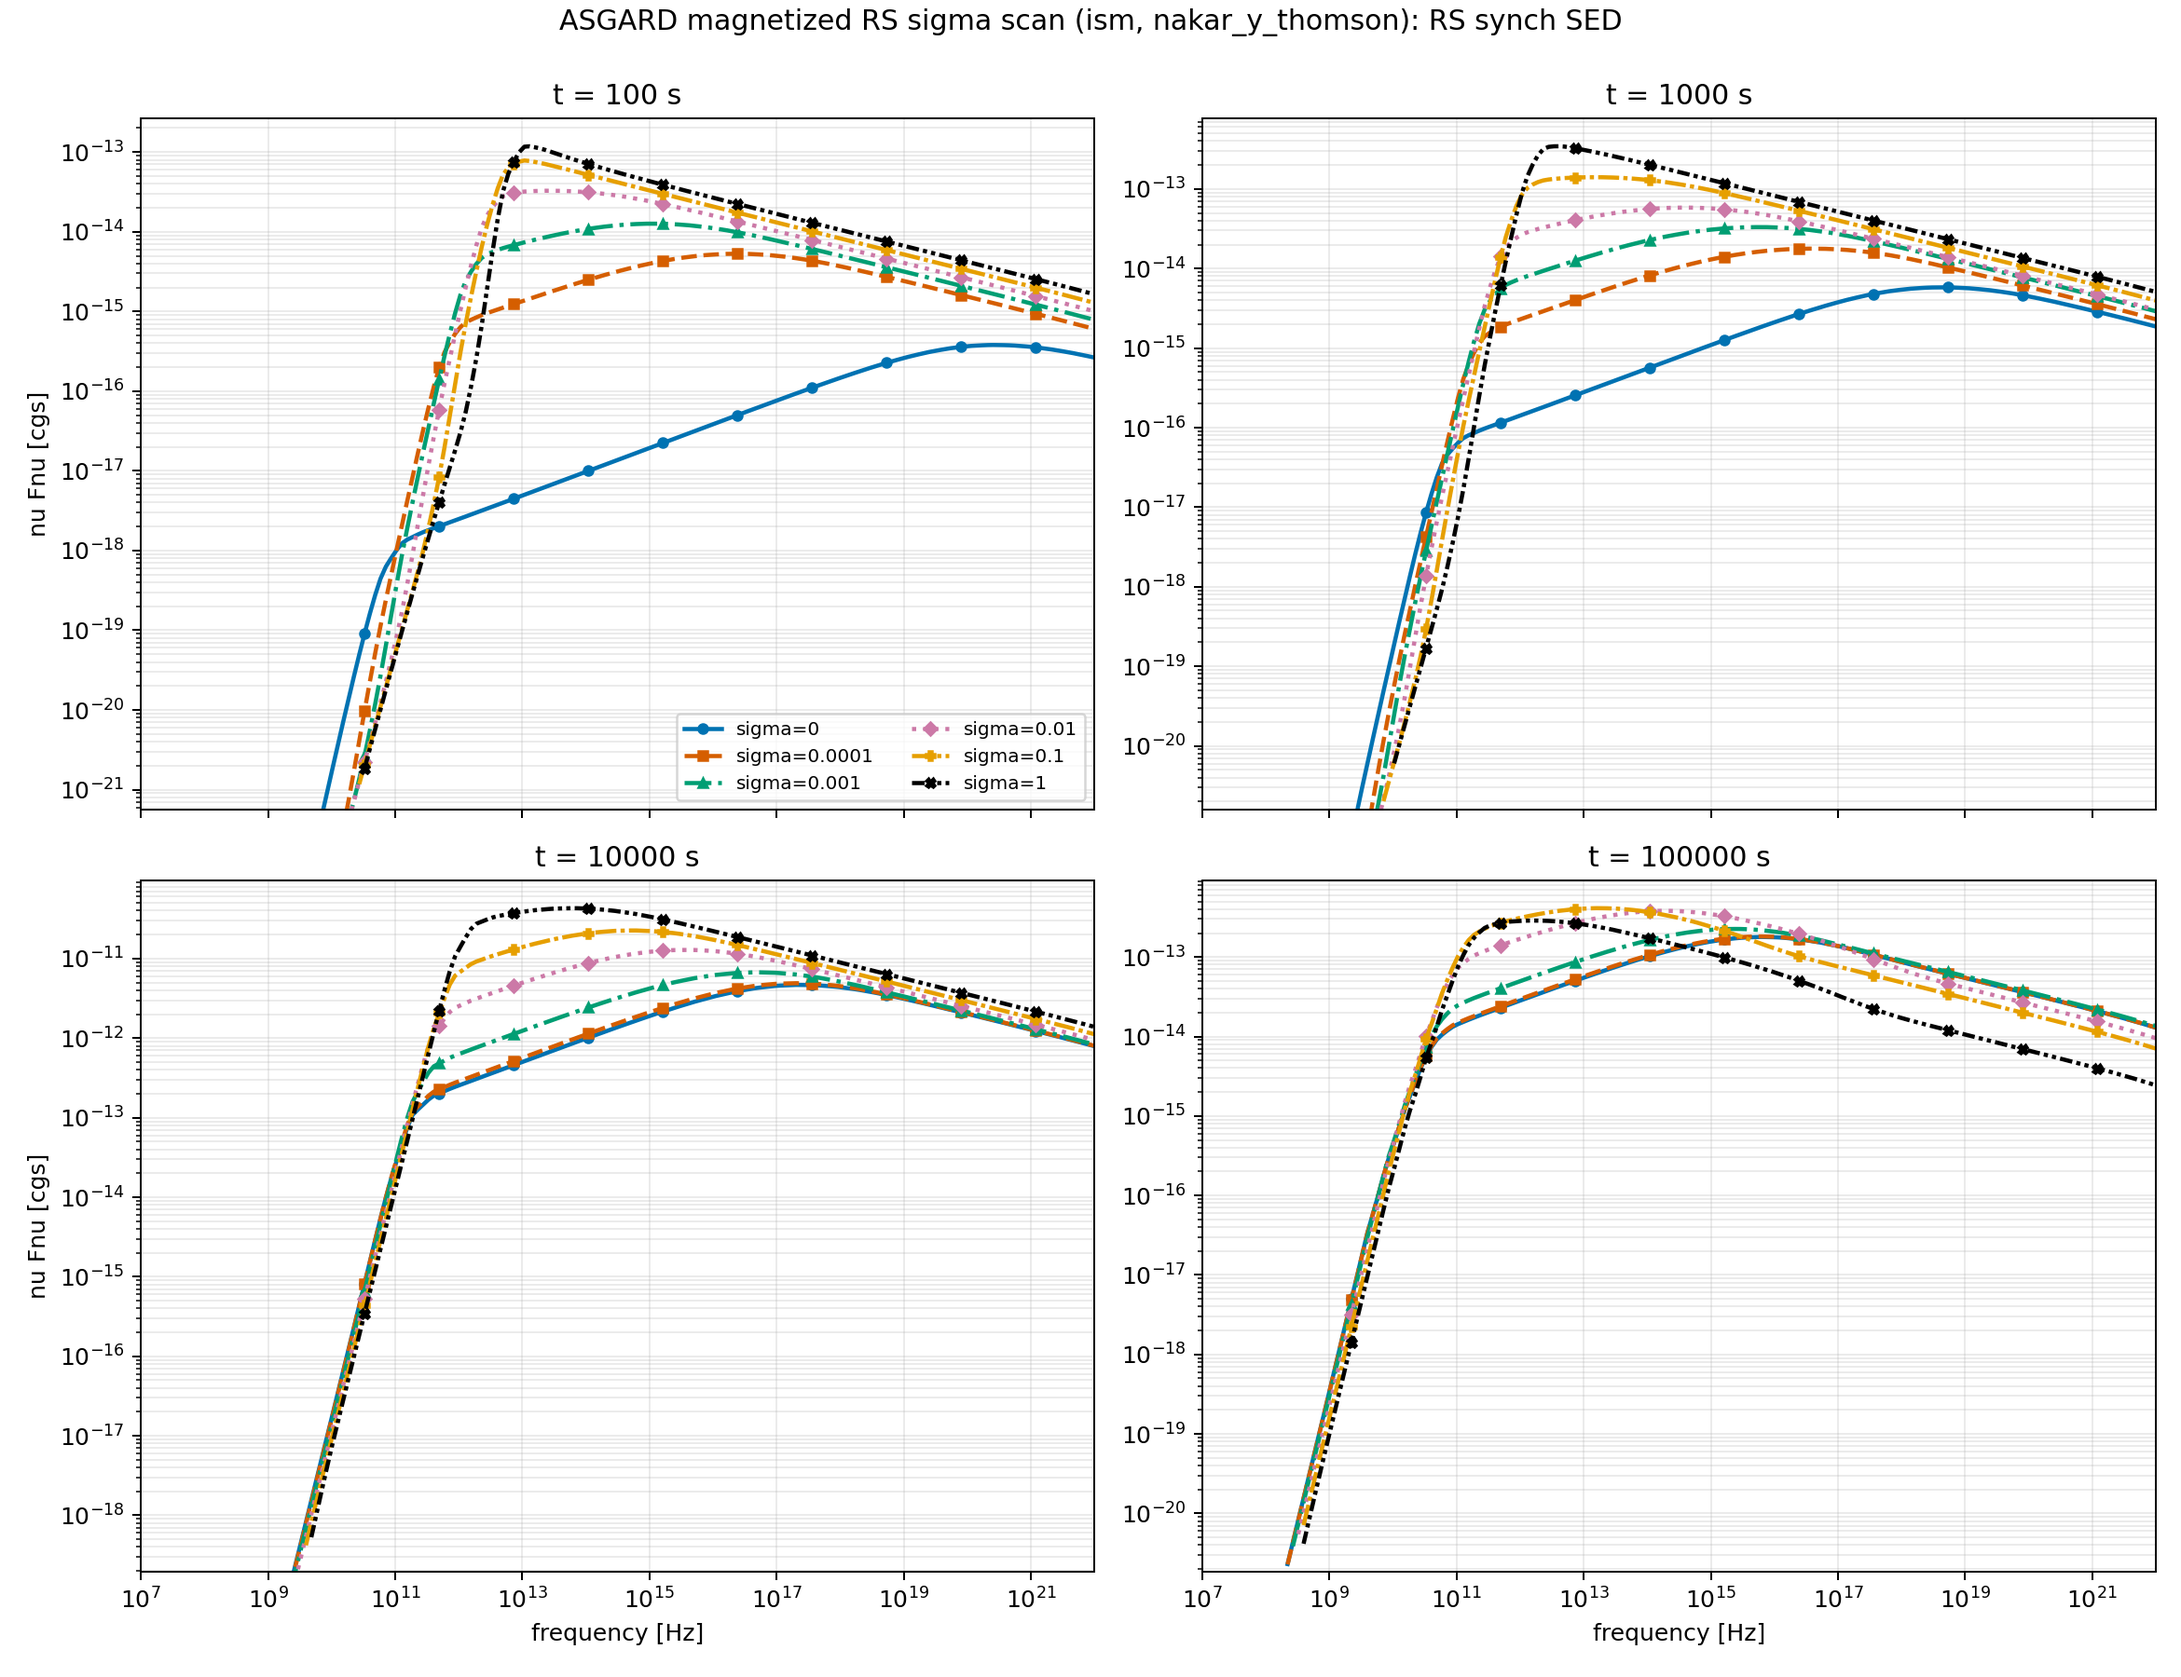
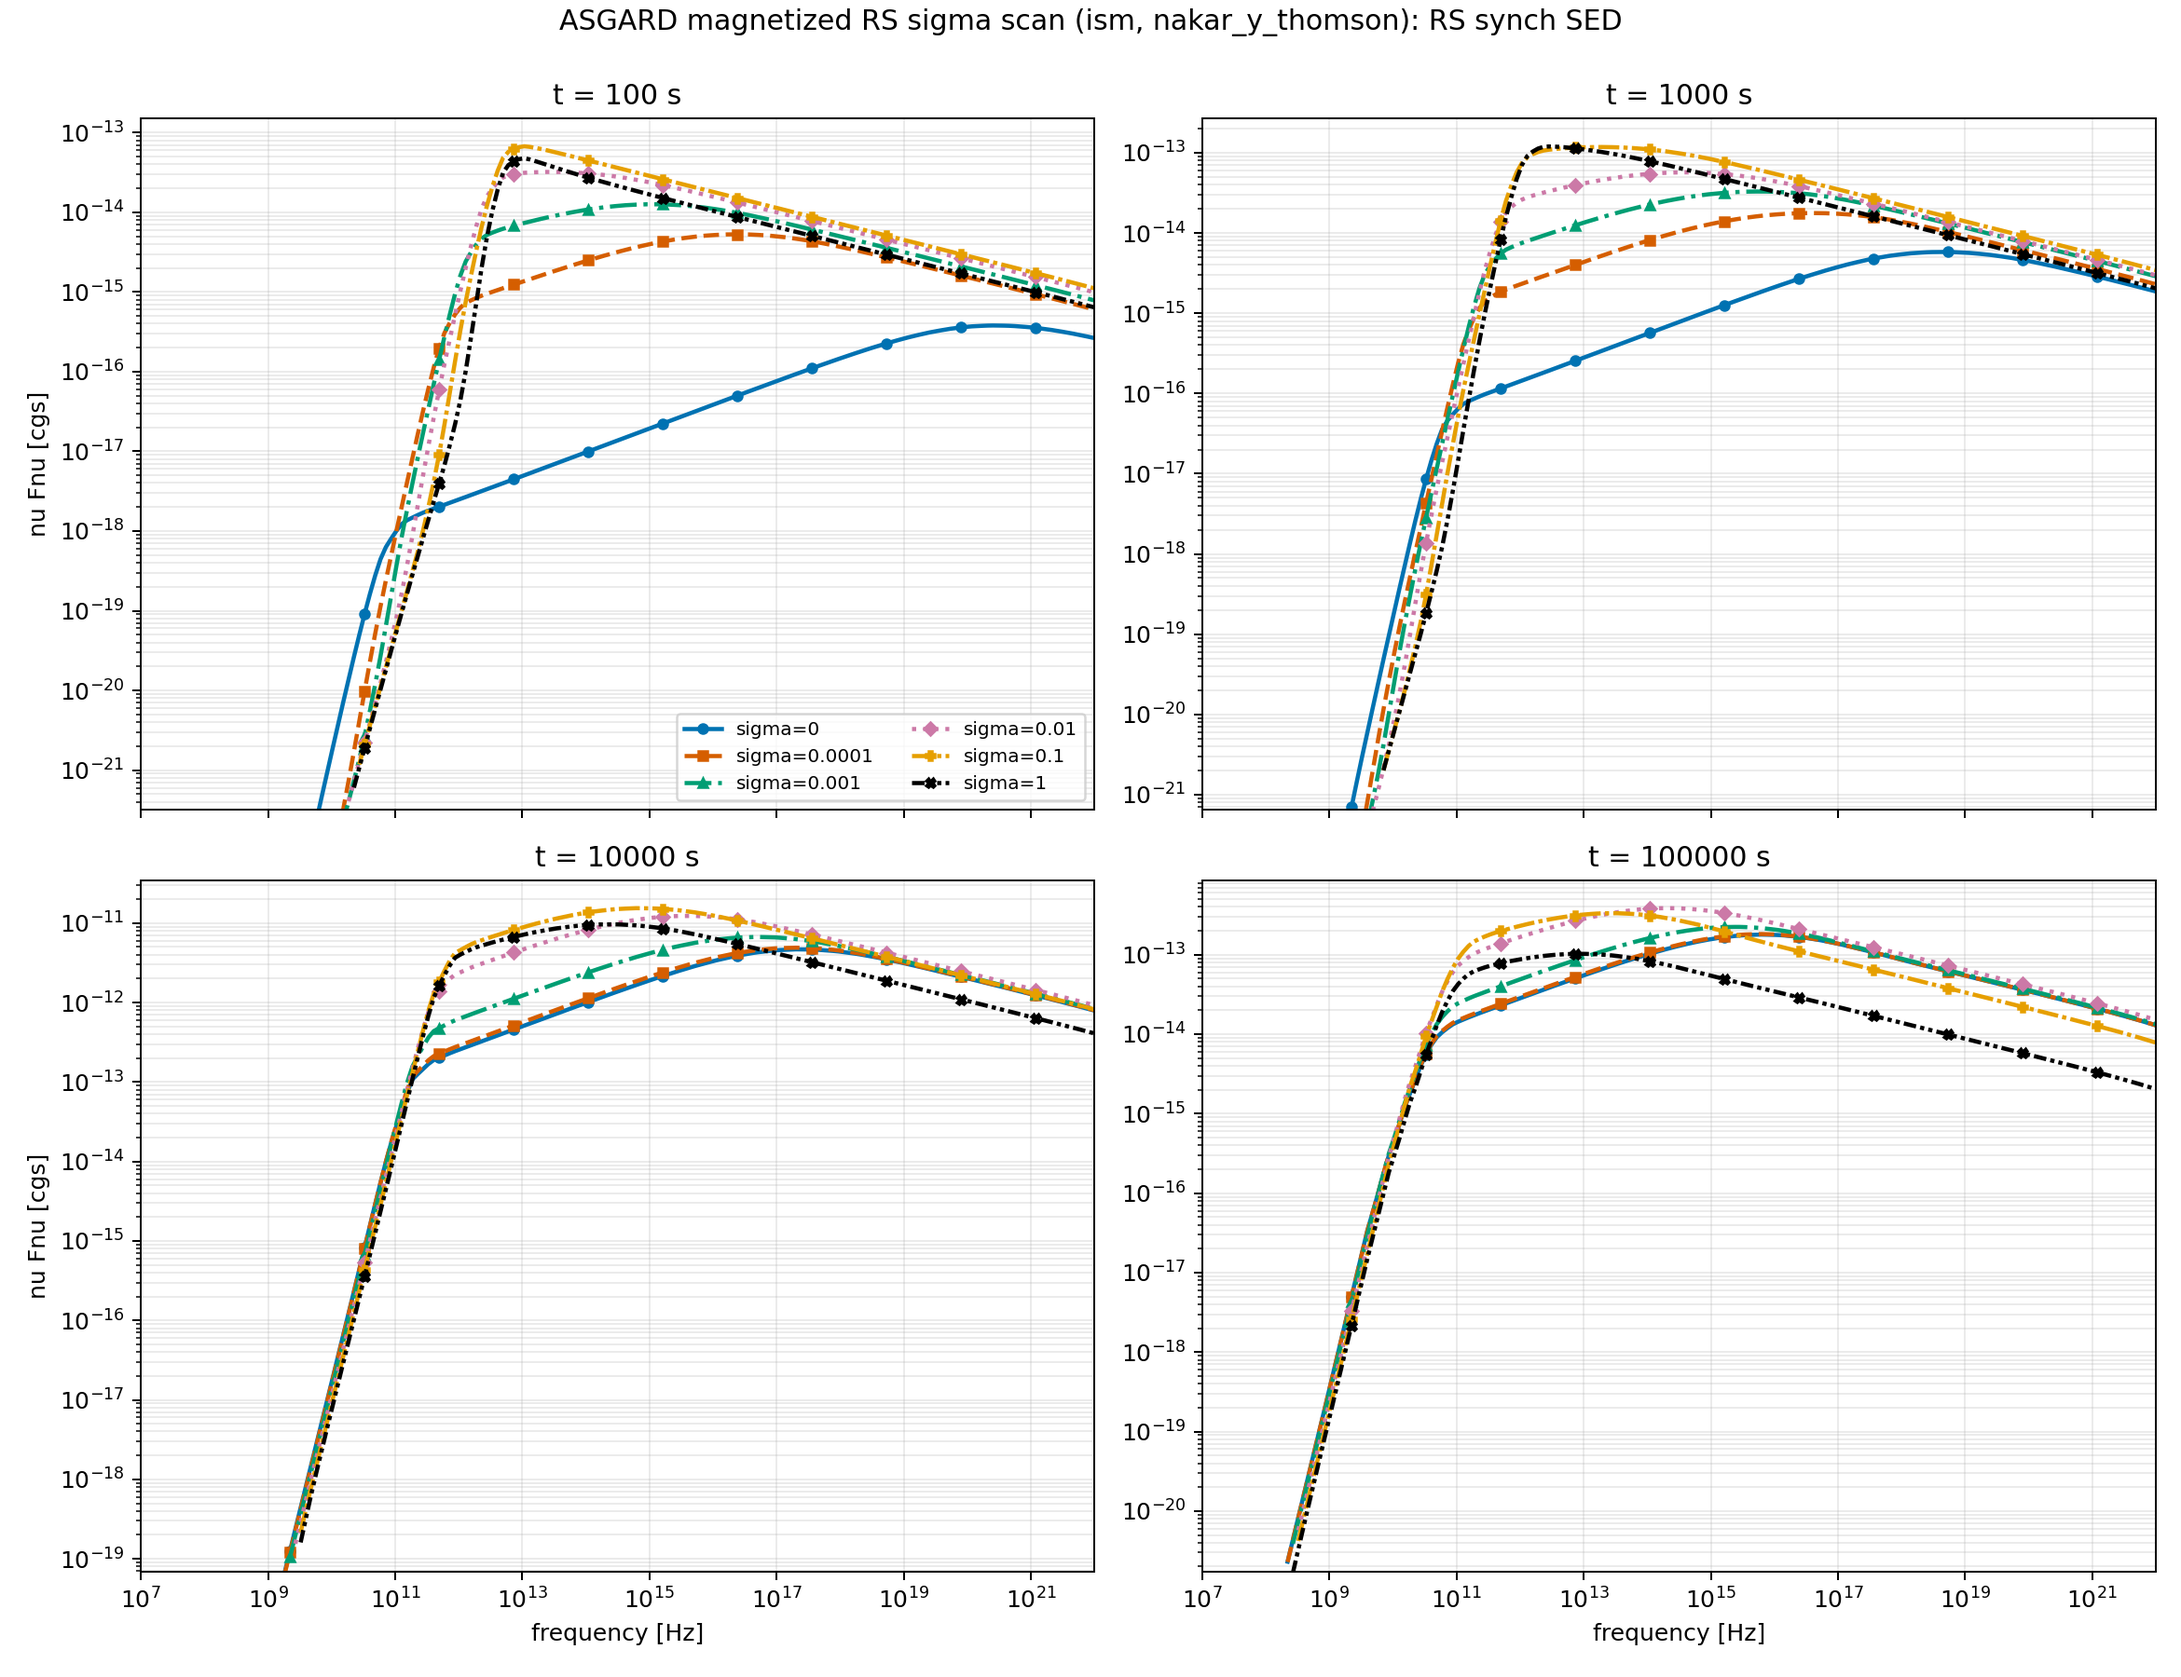
Fix magnetized reverse-shock sigma closure

diff --git a/asgard_core/asgard_runtime.py b/asgard_core/asgard_runtime.py
@@ -34,7 +34,12 @@ from asgard_core.asgard_types import (
     ReverseShockEmission,
     SolverAdapterReport,
 )
-from asgard_core.asgard_physics_utils import ambient_density, compute_magnetic_field, density_jump_arrays
+from asgard_core.asgard_physics_utils import (
+    ambient_density,
+    compute_magnetic_field,
+    density_jump_arrays,
+    reverse_shell_baryonic_mass,
+)
 from src import Dynamics, constants
 
 
@@ -1250,7 +1255,7 @@ def _solve_reverse_shock_electrons(
         raise ValueError("Reverse shock dynamics are required to compute reverse electrons.")
     module = _electron_reverse_module().electron_reverse_kernel
     delta_0 = reverse_params.delta_t_s * constants.para_c
-    para_m_ej = config.e_iso / config.eta_0 / constants.para_c**2
+    para_m_ej = reverse_shell_baryonic_mass(config)
     gam_e, d_n_gam_e = module.electron_reverse_evolve(
         delta_0,
         reverse_params.epsilon_e,

diff --git a/asgard_core/asgard_state.py b/asgard_core/asgard_state.py
@@ -27,6 +27,7 @@ from asgard_core.asgard_physics_utils import (
     ambient_density,
     compute_doppler,
     compute_magnetic_field,
+    reverse_shell_baryonic_mass,
 )
 from asgard_core.asgard_physics_utils import density_jump_arrays
 from asgard_core.asgard_postprocess import interpolate_observed_flux
@@ -72,7 +73,7 @@ def build_coupled_shock_geometry(dynamics, config: RuntimeConfig) -> _CoupledSho
     fs_width_cm, rs_width_cm = np.zeros((2, radius_cm.size), dtype=float)
 
     eta_0 = config.eta_0
-    shell_mass_g = config.e_iso / eta_0 / constants.para_c**2
+    shell_mass_g = reverse_shell_baryonic_mass(config)
     delta_0_cm = config.reverse_shock.delta_t_s * constants.para_c
 
     for i, radius_loc in enumerate(radius_cm):

diff --git a/asgard_core/asgard_physics_utils.py b/asgard_core/asgard_physics_utils.py
@@ -62,6 +62,10 @@ def density_profile_arrays(config: RuntimeConfig) -> tuple[np.ndarray, np.ndarra
     return profile_r, profile_n
 
 
+def reverse_shell_baryonic_mass(config: RuntimeConfig) -> float:
+    return config.e_iso / ((1.0 + config.reverse_shock.sigma) * config.eta_0 * constants.para_c**2)
+
+
 def ambient_density(radius_cm: np.ndarray | float, config: RuntimeConfig) -> np.ndarray | float:
     """
     Calculate ambient medium density at given radius.

diff --git a/AGENTS.md b/AGENTS.md
@@ -25,7 +25,7 @@ rtk bash -lc "source ~/.wsl_env && cd \"/mnt/c/Users/jia/Documents/New project/A
 
 - **Reverse-shock hadronic**: light backend `hadronic_reverse_1d` covers RS proton injection/transport + proton synchrotron; when RS hadronic full-chain flags are enabled, the runtime reuses the formal 1D hadronic kernels for RS pγ/BH/pp/secondary/cascade coupling with RS seed photons and RS shell targets.
 - **Pair cascade**: `pair_cascade_iterations > 1` now uses a shell-sequence time-dependent γγ pair/synch cascade path; the legacy single-shell iterative kernel remains for low-level diagnostics. IC-mediated electromagnetic cascade boundary is tracked in `TODO.md`.
-- **Reverse-shock thermal/magnetized baseline**: RS 注入能标使用 shock-front `gamma34`；区域 3 turbulent field 和 post-crossing 热演化使用显式 `U3/V3` thermal state；可选 upstream `sigma` 引入 MHD jump 压缩比和有序磁场，返回的 `B3` 是 turbulent + ordered total field，`sigma -> 0` 必须保持当前 unmagnetized baseline。VegasAfterglow 作为 jump-condition 来源和 comparison backend，不作为光变目标或物理基准。
+- **Reverse-shock thermal/magnetized baseline**: RS 注入能标使用 shock-front `gamma34`；区域 3 turbulent field 和 post-crossing 热演化使用显式 `U3/V3` thermal state；`E_iso` 是总 ejecta 能量，有限 upstream `sigma` 下 baryonic ejecta mass 为 `E_iso/[(1+sigma) Gamma0 c^2]`，MHD jump 同时给出压缩比、有序磁场和热比内能，有序磁场焓进入主 RS 动力学惯性，返回的 `B3` 是 turbulent + ordered total field，`sigma -> 0` 必须保持当前 unmagnetized baseline。VegasAfterglow 作为 jump-condition 来源和 comparison backend，不作为光变目标或物理基准。
 - **Vegas benchmark refresh**: 旧 Vegas Python comparison 入口已删除；需要重新建立时先说明物理假设和验收口径，再把可复用入口放入 `tests/`。
 - **Benchmark refresh protocol**: 旧 `scripts/benchmarks/` Python 入口已删除。重新生成 benchmark 前必须先说明假设和决策价值；刷新前后记录 git HEAD、`git status --short --branch`、`git diff --stat`、完整命令、受影响 Fortran build 状态、输出路径和物理验收口径。正式可复用入口应进入 `tests/`，临时研究脚本放 `/tmp`。
 - **2D/chi-resolved hadronic decision**: 当前不实现 2D/χ hadronic transport；正式 hadronic path 保持 1D shell 契约，直到 χ-local photon field、hadron density、secondary feedback 和 observer projection 的物理契约完成。
